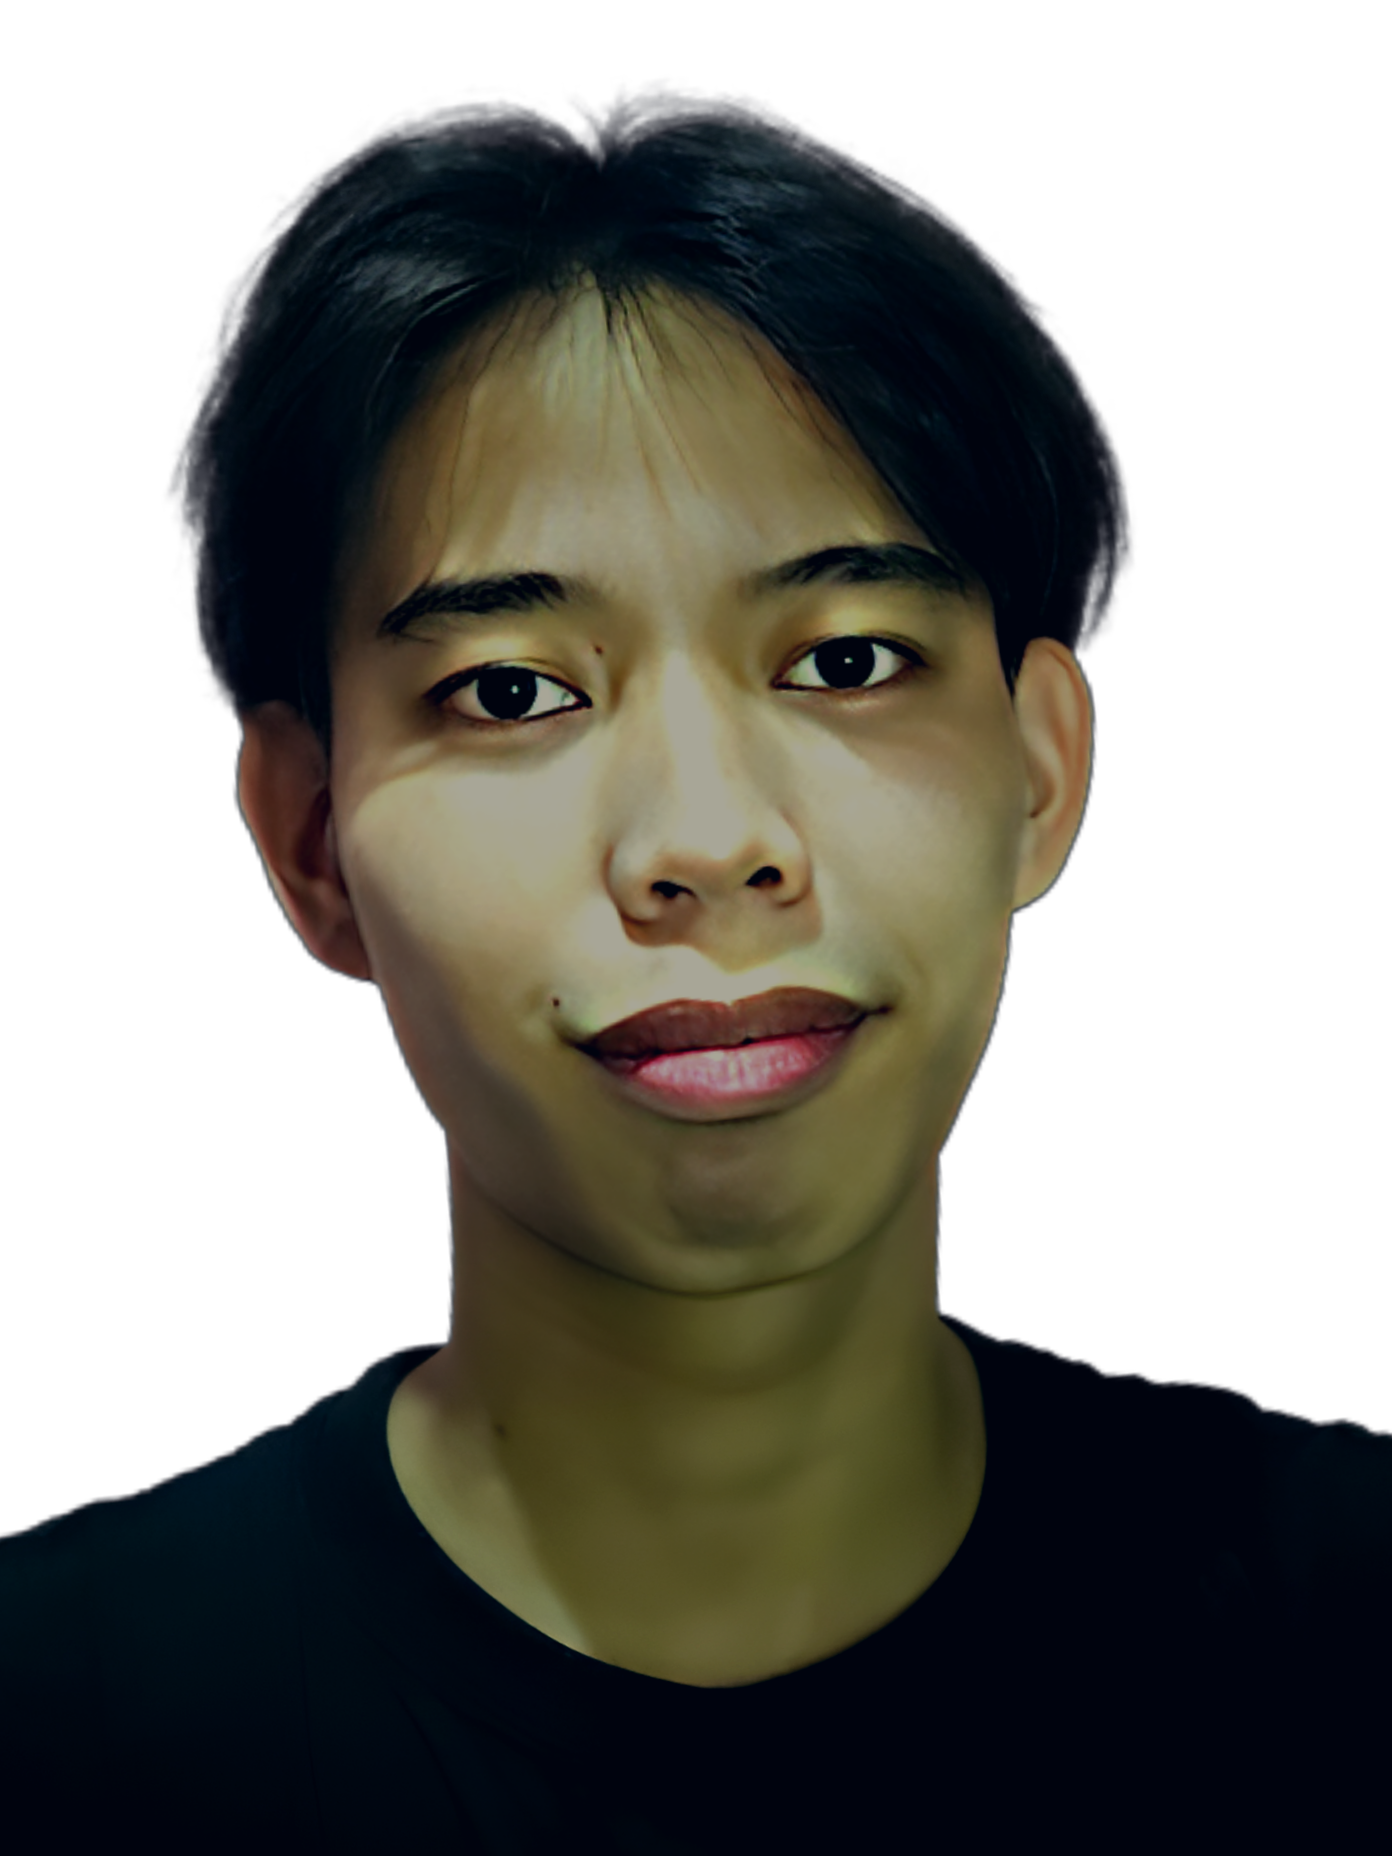
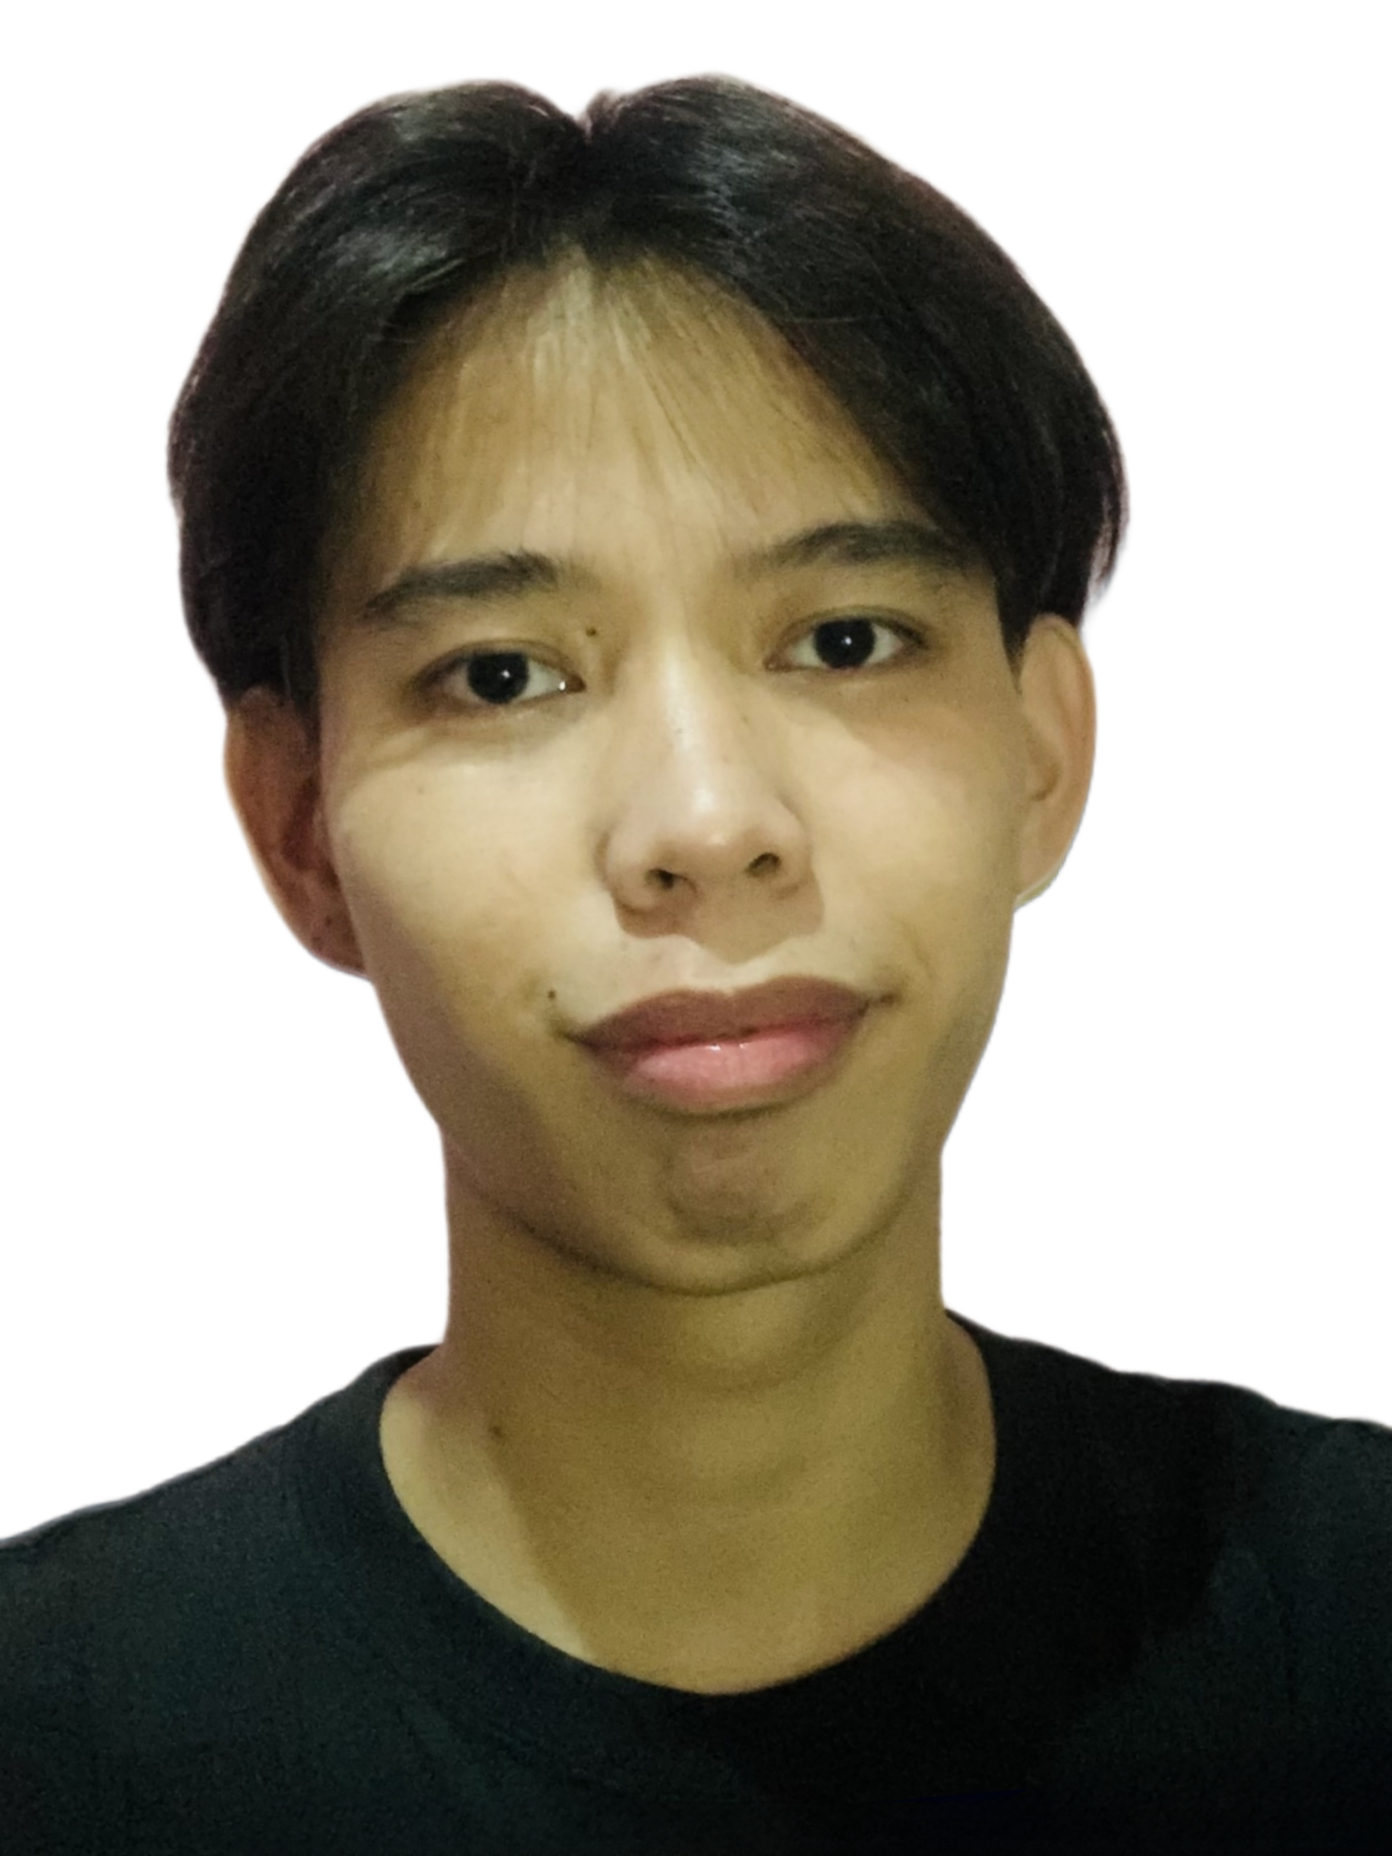
changing bg color

diff --git a/newscript.js b/newscript.js
@@ -27,7 +27,8 @@ const elements = {
   switchLogo: document.getElementById('sun_n_moon'),
   loading_screen: document.getElementById('loading_screen'),
   loading: document.getElementById('loading'),
-  loaded: document.getElementById('loaded')
+  loaded: document.getElementById('loaded'),
+  profile: document.getElementById('about_profile')
 };
 AOS.init({
   disable: false,
@@ -54,11 +55,12 @@ function makeCall() {
   window.location.href = 'tel:+639302979295';
 }
 
-function changeImages(logo, home, nav, slogo) {
+function changeImages(logo, home, nav, slogo, prof) {
   elements.navLogo.src = logo;
   elements.homeProfile.src = home;
   elements.navBar.style.background = nav;
   elements.switchLogo.src = slogo;
+  elements.profile.src = prof;
 }
 
 function changeImagesArray(images, imagePaths) {
@@ -69,8 +71,8 @@ function changeImagesArray(images, imagePaths) {
   }
 }
 
-function applyTheme(logo, neon, backgroundColor, switchIcon, themeName) {
-  changeImages(logo, neon, backgroundColor, switchIcon);
+function applyTheme(logo, neon, backgroundColor, switchIcon, prof, themeName) {
+  changeImages(logo, neon, backgroundColor, switchIcon, prof);
   changeImagesArray(elements.profileIcons, ['assets/linkedin_dark.png', 'assets/github_dark.png', 'assets/gmail_dark.png']);
   changeImagesArray(elements.contactIcons, ['assets/gmail_dark.png', 'assets/phone_dark.png', 'assets/linkedin_dark.png', 'assets/facebook_dark.png']);
   changeImagesArray(elements.ghIcons, Array(3).fill('assets/github_dark.png'));
@@ -89,17 +91,17 @@ elements.themeToggle.addEventListener("click", function () {
   elements.theme.classList.toggle("open");
 
   if (elements.theme.classList.contains("open")) {
-    applyTheme('assets/logo_white.png', 'assets/neon.png', '#000000', 'assets/moon.png', 'dark');
+    applyTheme('assets/logo_white.png', 'assets/neon.png', '#000000', 'assets/moon.png', 'assets/profile_dark.png','dark');
     localStorage.setItem("theme", "dark");
   } else {
-    applyTheme('assets/logo_dark.png', 'assets/neon_black.png', '#E0E0E0', 'assets/sun.png', 'light');
+    applyTheme('assets/logo_dark.png', 'assets/neon_black.png', '#E0E0E0', 'assets/sun.png', 'assets/profile.png', 'light');
     localStorage.setItem("theme", "light");
   }
 });
 
 const savedTheme = localStorage.getItem("theme");
 if (savedTheme == 'dark') {
-  applyTheme('assets/logo_white.png', 'assets/neon.png', '#000000', 'assets/moon.png', savedTheme);
+  applyTheme('assets/logo_white.png', 'assets/neon.png', '#000000', 'assets/moon.png', 'assets/profile_dark.png', savedTheme);
 }
 
 

diff --git a/newstyle.css b/newstyle.css
@@ -32,8 +32,8 @@
     display: none;
 }
 body.open{
-    --bg_color: #212121;
-    --card_color: #303030;
+    --bg_color: #27374D;
+    --card_color: #526D82;
     --navbar_color: #000000;
     --primary_color: rgba(255, 255, 255, 1);
     --secondary_color: rgba(255, 255, 255, .7);
@@ -45,11 +45,11 @@ body.open{
 }
 body{
     --_primary_color: var(--primary_color, rgba(0, 0, 0, .87));
-    --_secondary_color: var(--secondary_color, rgba(0, 0, 0, .54));
+    --_secondary_color: var(--secondary_color, rgba(0, 0, 0, 1));
     --_hint_color: var(--hint_color, rgba(0, 0, 0, .38));
-    --_bg_color: var(--bg_color, #F5F5F5);
+    --_bg_color: var(--bg_color, #DDE6ED);
     --_navbar_color: var(--navbar_color, #E0E0E0);
-    --_card_color: var(--card_color, #FAFAFA);
+    --_card_color: var(--card_color, #9db2bf);
     --_active_icon: var(--active_icon, .54);
     --_inactive_icon: var(--inactive_icon, .38);
     --_toggle_position: var(--toggle_position, translateX(0));

diff --git a/portfolio.html b/portfolio.html
@@ -198,7 +198,7 @@
     <h1 class="section_title" data-aos="fade-up">About me</h1>
     <div class="about_con">
       <div class="about_pic" data-aos="zoom-in">
-        <img src="./assets/profile.png" alt="Profile Picture"/>
+        <img src="./assets/profile.png" alt="Profile Picture" id="about_profile"/>
       </div>
       <div class="about_details_con">
         <div class="about_bg_con">
